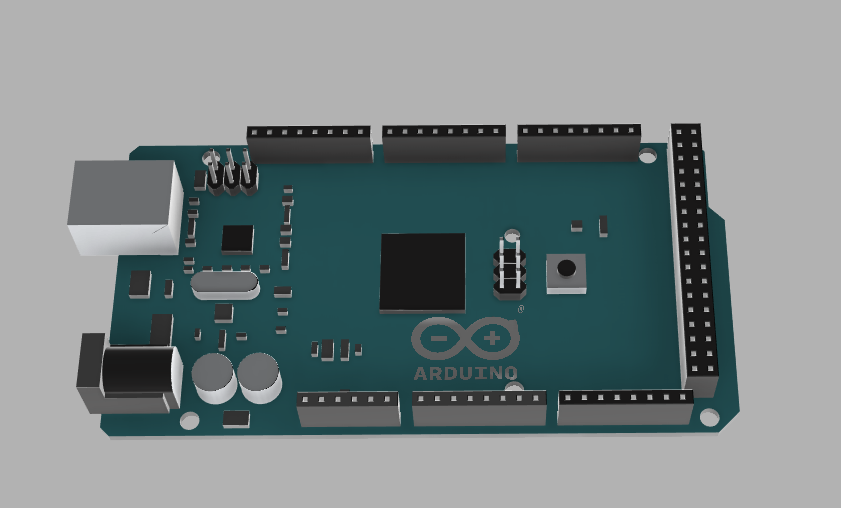
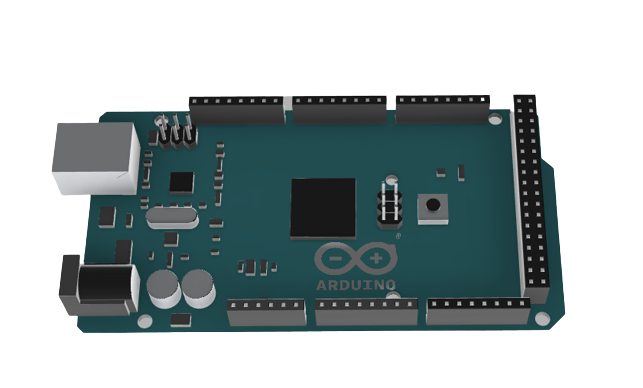
switch ardu image

diff --git a/pages/result.md b/pages/result.md
@@ -11,6 +11,7 @@
 <h3> Robot core body </h3>
 
 ![Image of robot](../imgs/cruiser-core.png "Coast Cleanup Cruiser")
+
 <ul> 
     <li> Conveyer belt and olds trash collection bins </li> 
     <li> Includes batteries and top-mounted solar pannels </li> 
@@ -20,6 +21,7 @@
 <h3> Robot arm </h3> 
 
 ![Image of robot](../imgs/armv3-whole-closeup.png "Coast Cleanup Cruiser")
+
 <ul> 
     <li> Funnels trash towards center </li> 
     <li> Uses a wire mesh to target medium-sized trash and limit sand collection</li> 
@@ -28,6 +30,7 @@
 <h3> Watertight electronics enclosure </h3> 
 
 ![img](../imgs/electronics-box.png)
+
 <ul> 
     <li> Mounted at rear for convenient access </li> 
     <li> Great location for microcontroller and DC motor drivers </li> 
@@ -37,7 +40,9 @@
 <h2> Software </h2>
 
 <h3> General Operation </h3> 
-![img](../imgs/)
+
+![img](../imgs/ard-mega.png)
+
 <ul> 
     <li> Wide range of microcontrollers to choose from </li> 
     <li> Possibility to use Arduino code or MicroPython </li> 
